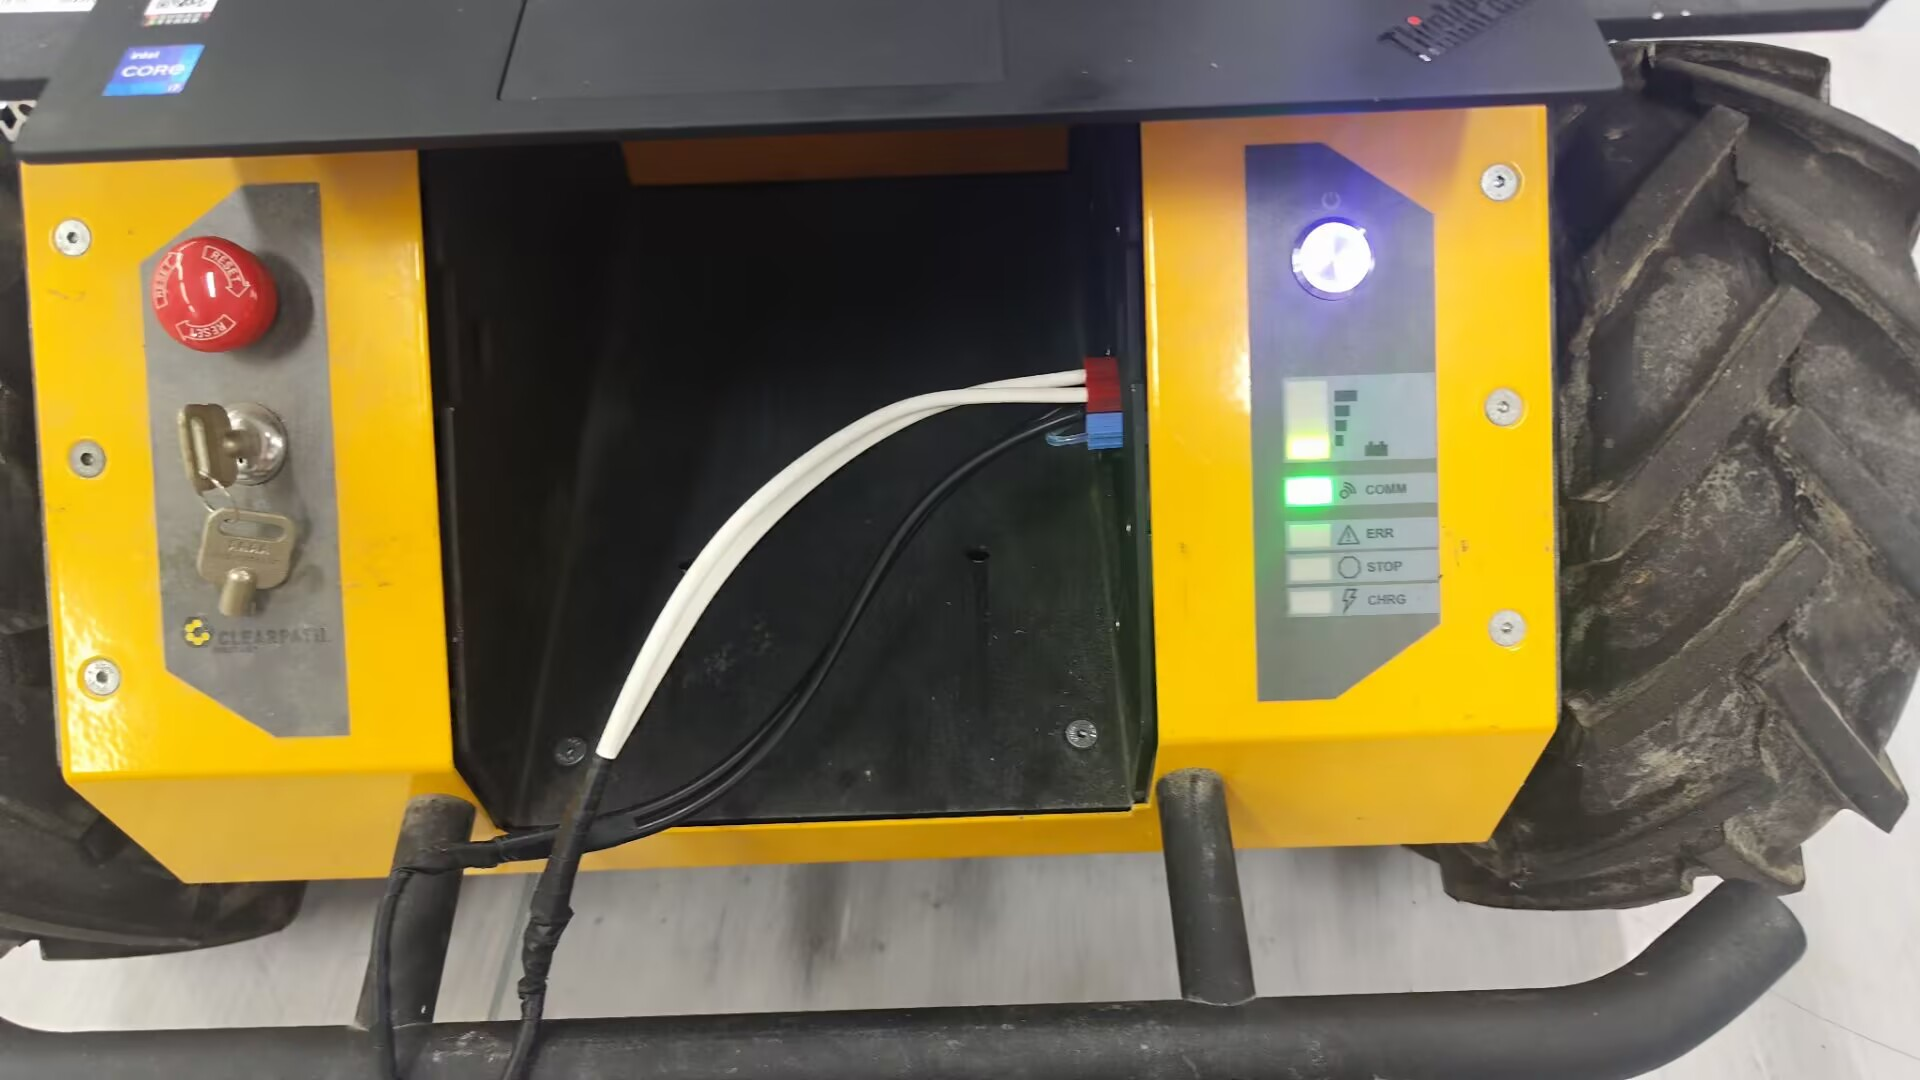
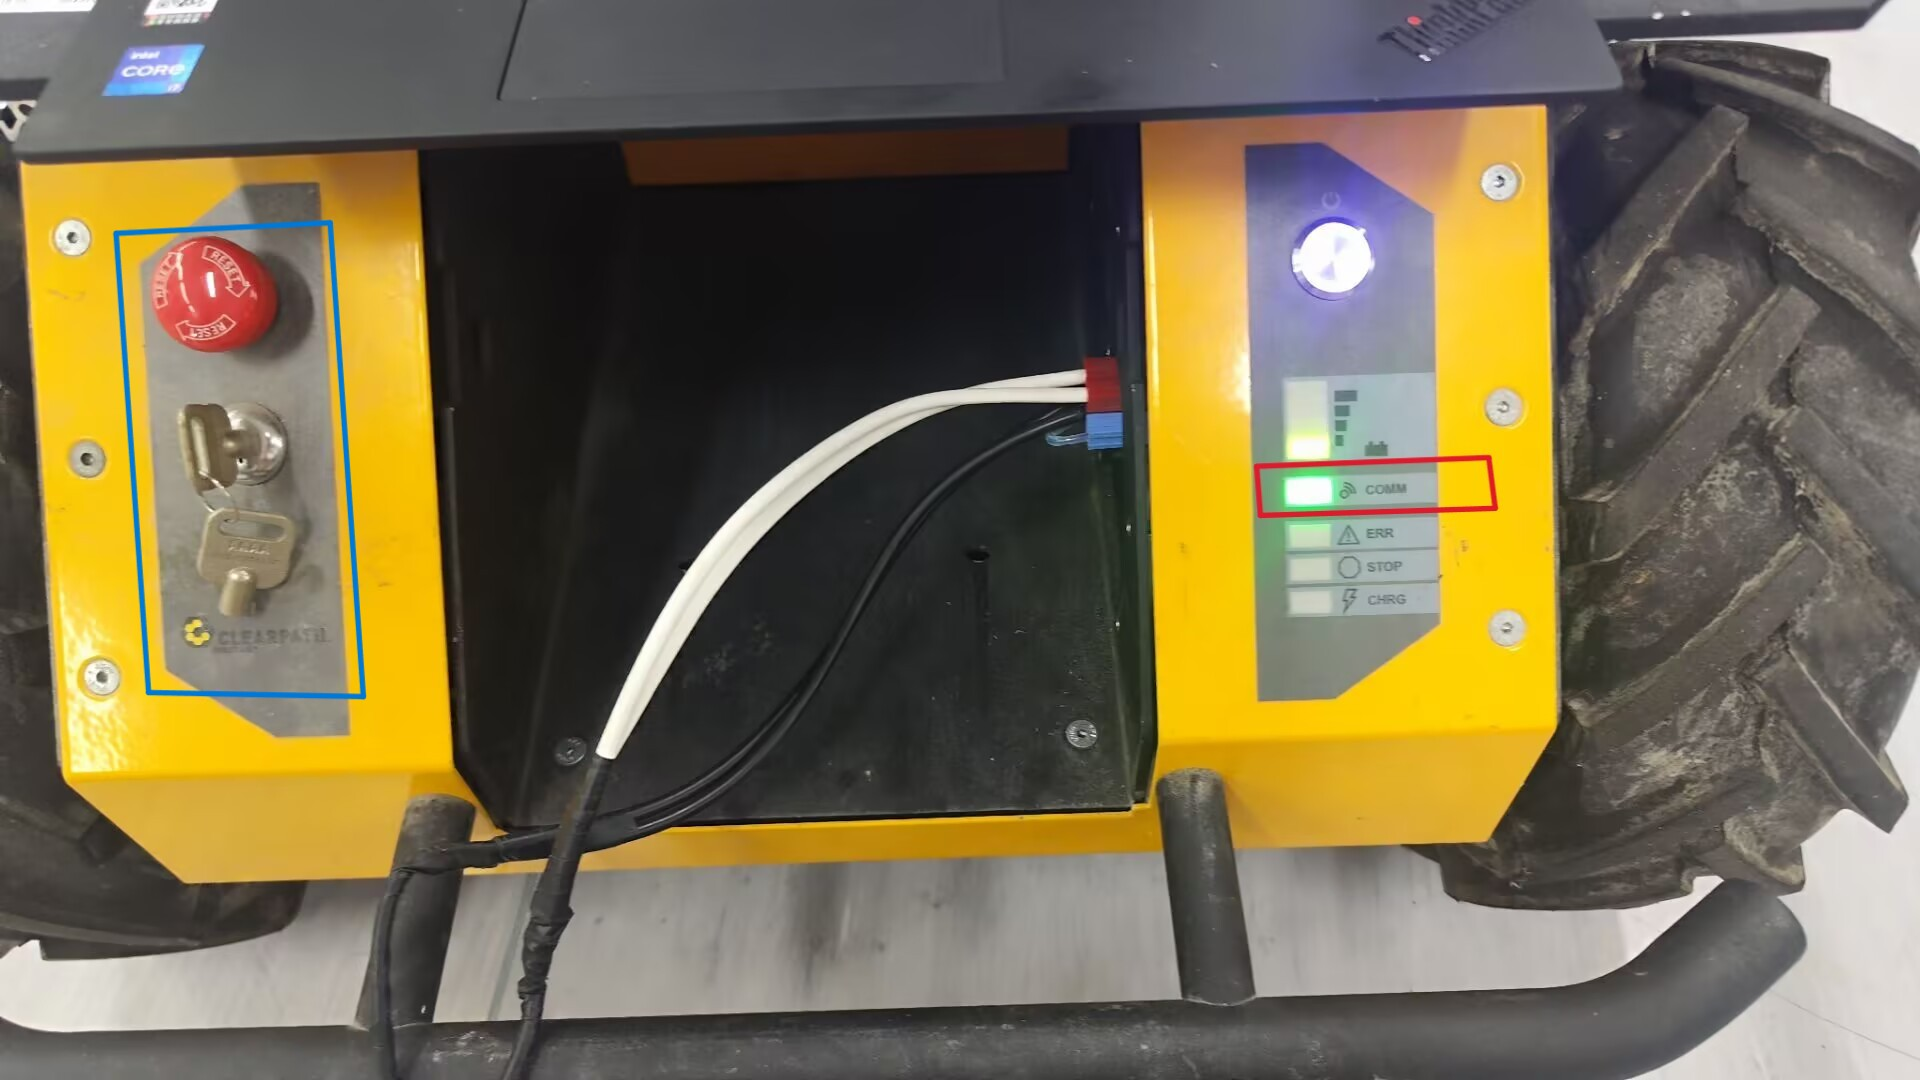
Publishing Pages

diff --git a/Writerside/topics/快速开始.md b/Writerside/topics/快速开始.md
@@ -1,0 +1,33 @@
+# 快速开始
+
+
+本节介绍如何快速开始使用 Husky 机器人。
+
+## 1. 开机
+
+![start_0.jpg](start_0.jpg){thumbnail="true" width="400"}
+确保Husky电池连接正常，按下开关（上图中红色框内银色按钮）开机。
+
+![start_error.jpg](start_error.jpg){thumbnail="true" width="400"}
+观察Husky尾部面板上的COMM指示灯（上图中红色框内），如果指示灯长时间为红色（一般等待30s-50s），表示Husky主机网络未连接。
+
+![restart.jpg](restart.jpg){thumbnail="true" width="400"}
+如果COMM指示灯长时间显示红色，请在上图所指示位置重启Husky主机（此处为主机重启建，由于视线受阻，需要靠手指感觉模到，重启建为圆形，微微下凹，按到会有机械反馈），重启后等待30s-50s，观察COMM指示灯是否变为绿色或黄色。如未改变，重复此步骤。
+
+![start.jpg](start.jpg){thumbnail="true" width="400"}
+COMM指示灯显示绿色，表示正常启动完成，可进行以下步骤。 <br/>
+如果COMM指示灯显示黄色，表示Husky主机被机械锁定，请检查Husky尾部面板左侧的机械锁定装置（上图蓝色框内），并将其解除。红色按钮向右旋转解除，钥匙请转到上图中所示位置。
+
+![Lidar_power_0.jpg](Lidar_power_0.jpg){thumbnail="true" width="400"}
+如果需要用到hesaiPandora激光雷达，按上图所示连接电源，并打开移动电源开关（下图红色框内位置）。
+
+![Lidar_power.jpg](Lidar_power.jpg){thumbnail="true" width="400"}
+
+## 2. 连接
+
+通过网线连接为Husky配备的笔记本电脑（固定设备，已经做过相关配置，注意开机进入Ubuntu系统）。
+
+
+
+请确保物理连接正常，再执行以下步骤。
+

diff --git a/Writerside/topics/其他操作.md b/Writerside/topics/其他操作.md
@@ -1,3 +1,6 @@
 # 真机开发手册
 
-Start typing here...
+
+- [添加自定义区域](添加自定义区域.md)
+- [真机开发](真机开发.md)
+- [Husky仿真](Husky仿真.md)

diff --git a/Writerside/topics/参观演示.md b/Writerside/topics/参观演示.md
@@ -1,5 +1,6 @@
 # 参观演示
 
+
 第一个终端： HuskyConcent 
 连接husky主机
 ![show1.png](show1.png)
